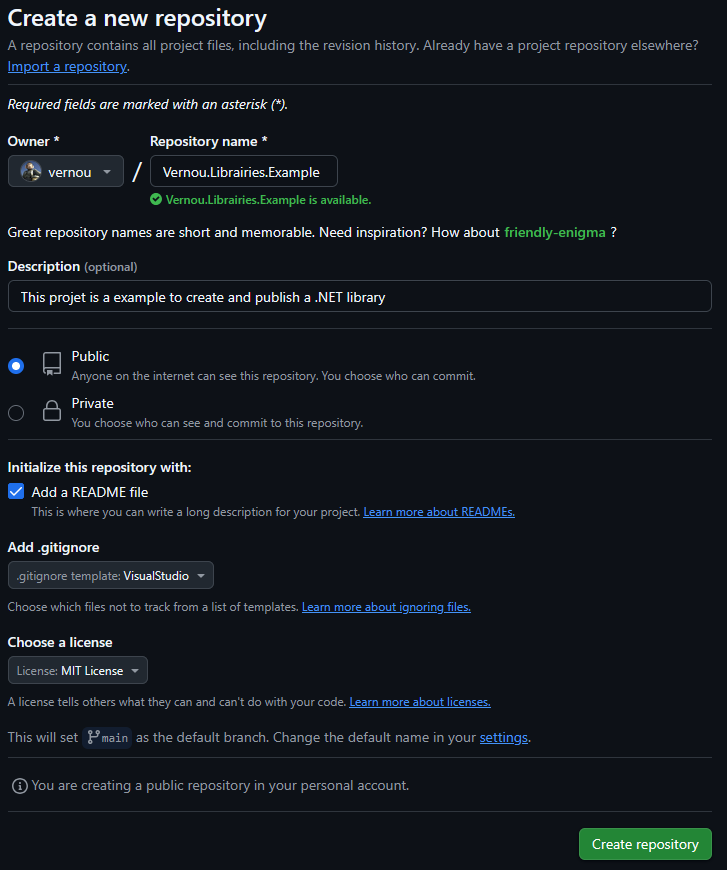
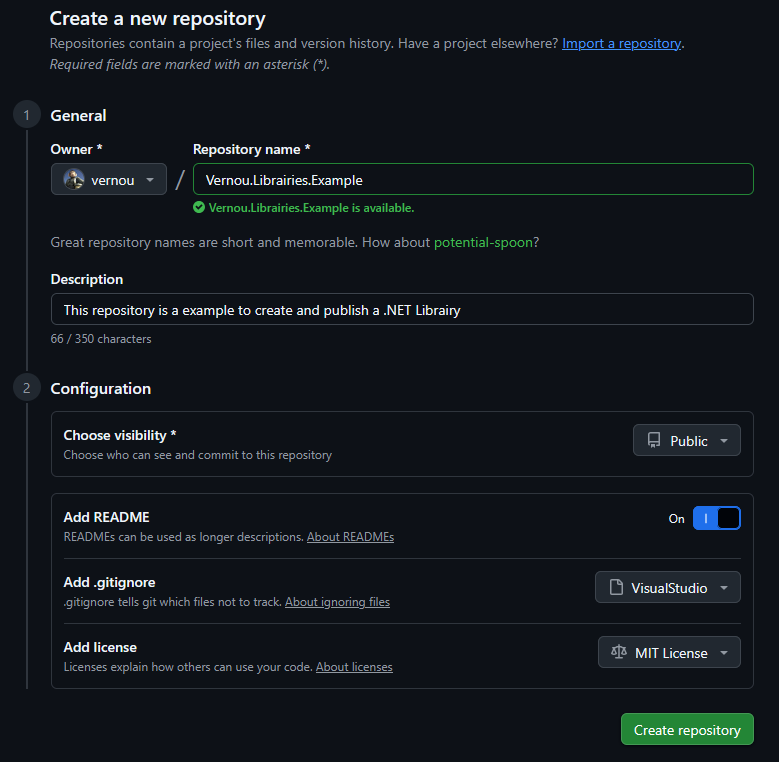
wip

diff --git a/articles/011/content.html b/articles/011/content.html
@@ -24,10 +24,7 @@
                 dotnet / GitHub / NuGet
             </h2>
             <p>
-                En tant que mainteneur de plusieurs bibliothèques .NET pour mon travail, j'ai acquis une certaine
-                expérience à ce sujet. Dans cette article, je vais expliquer ma procédure pour créer une bibliothèque
-                .NET,
-                allant de la création/configuration du dépôt sur GitHub à la publication sur NuGet.
+                Dans mon travail, j'ai régulièrement besoin de créer des bibliothèques .NET. Mais pas suffisamment pour que je me souvienne parfaitement de la procédure. Dans cette article, je détaille les étapes que je suis pour créer une bibliothèque .NET, depuis la création et la configuration du dépôt GitHub jusqu'à la publication sur NuGet.
             </p>
             <figure class="articleimg">
                 <img src="cover.jpg" alt="Portail abandonné en forét">
@@ -38,15 +35,19 @@
                 Lors de la création d'un dépôt GitHub, il faut saisir les informations suivantes:
             </p>
             <ul>
-                <li>Saisir dans "Repository Name" le nom de la bibliothèque</li>
-                <li>Saisir dans "Description" une courte description de la bibliothèque</li>
-                <li>Select "Public"</li>
-                <li>
-                    Dans "Initialize this repository with:"
+                <li>Remplir dans <strong>"General"</strong> :
                     <ul>
-                        <li>Cochez "Add a README file"</li>
-                        <li>Pour "Add .gitignore", sélectionnez "Visual Studio"</li>
-                        <li>Pour "Choose a license", sélectionnez "MIT License"</li>
+                        <li>Sélectionner dans <strong>"Owner"</strong> l'utilisateur ou l'organisation qui sera le propriétaire du dépôt</li>
+                        <li>Saisir dans <strong>"Repository Name"</strong> le nom de la bibliothèque</li>
+                        <li>Saisir dans <strong>"Description"</strong> une courte description de la bibliothèque</li>
+                    </ul>
+                </li>
+                <li>Remplir dans <strong>"Configuration"</strong> :
+                    <ul>
+                        <li>Sélectionner dans <strong>"Choose visibility"</strong> l'option <strong>"Public"</strong></li>
+                        <li>Activer l'option <strong>"Add README"</strong></li>
+                        <li>Sélectionner dans <strong>"Add .gitignore"</strong> l'option <strong>"VisualStudio"</strong></li>
+                        <li>Sélectionner dans <strong>"Add license"</strong> l'option < strong>"MIT Licence"</strong></li>
                     </ul>
                 </li>
                 <li>Pour finir, cliquer sur le bouton "Create repository"</li>
@@ -68,10 +69,11 @@ mkdir src
 <span style="color: #007020">cd </span>src
 
 <span style="color: #888888"># Crée le projet de la bibliothèque</span>
-dotnet new classlib --name Vernou.Librairies.Example
+dotnet new classlib --name Vernou.Librairies.Example --framework net10.0
 
 <span style="color: #888888"># Crée le projet de test</span>
-dotnet new xunit --name Vernou.Librairies.Example.Tests
+dotnet new install xunit.v3.templates
+dotnet new xunit3 --name Vernou.Librairies.Example.Tests --framework net10.0
 dotnet add Vernou.Librairies.Example.Tests reference Vernou.Librairies.Example
 dotnet add Vernou.Librairies.Example.Tests package Shouldly
 
@@ -80,12 +82,12 @@ dotnet new sln --name Vernou.Librairies.Example --format slnx
 dotnet sln add Vernou.Librairies.Example
 dotnet sln add Vernou.Librairies.Example.Tests
 
-<span style="color: #888888"># Vérfie que la solution compile et les tests passent</span>
+<span style="color: #888888"># Vérifie que la solution compile et les tests passent</span>
 dotnet <span style="color: #007020">test</span>
 
-<span style="color: #888888"># Pousse les projets sur GitHub</span>
+<span style="color: #888888"># Pousse les modiffications sur GitHub</span>
 git add *
-git commit -m <span style="background-color: #fff0f0">&quot;Initialize the solution&quot;</span>
+git commit -m <span style="background-color: #fff0f0">&quot;feat(lib): Initialize the solution&quot;</span>
 git push</pre>
             </div>
             <h3>3) Mise en place de l'intégration continue</h3>
